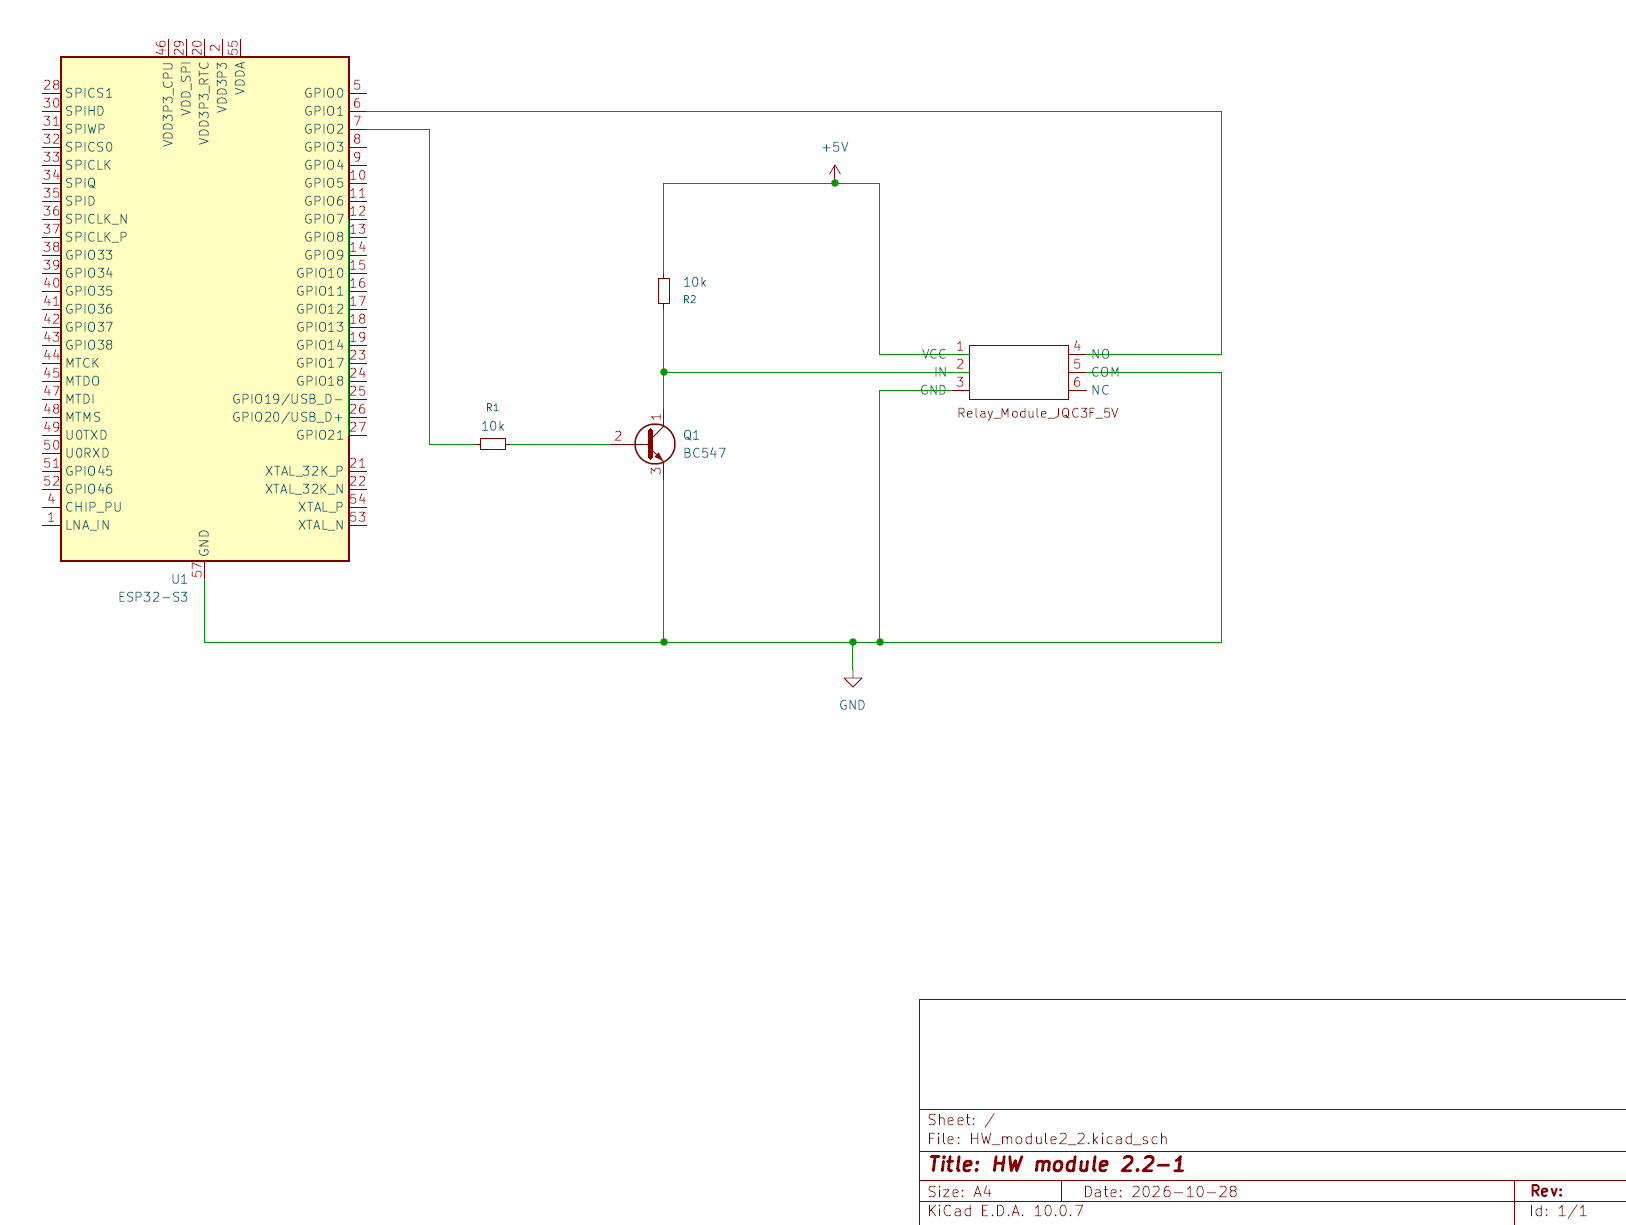
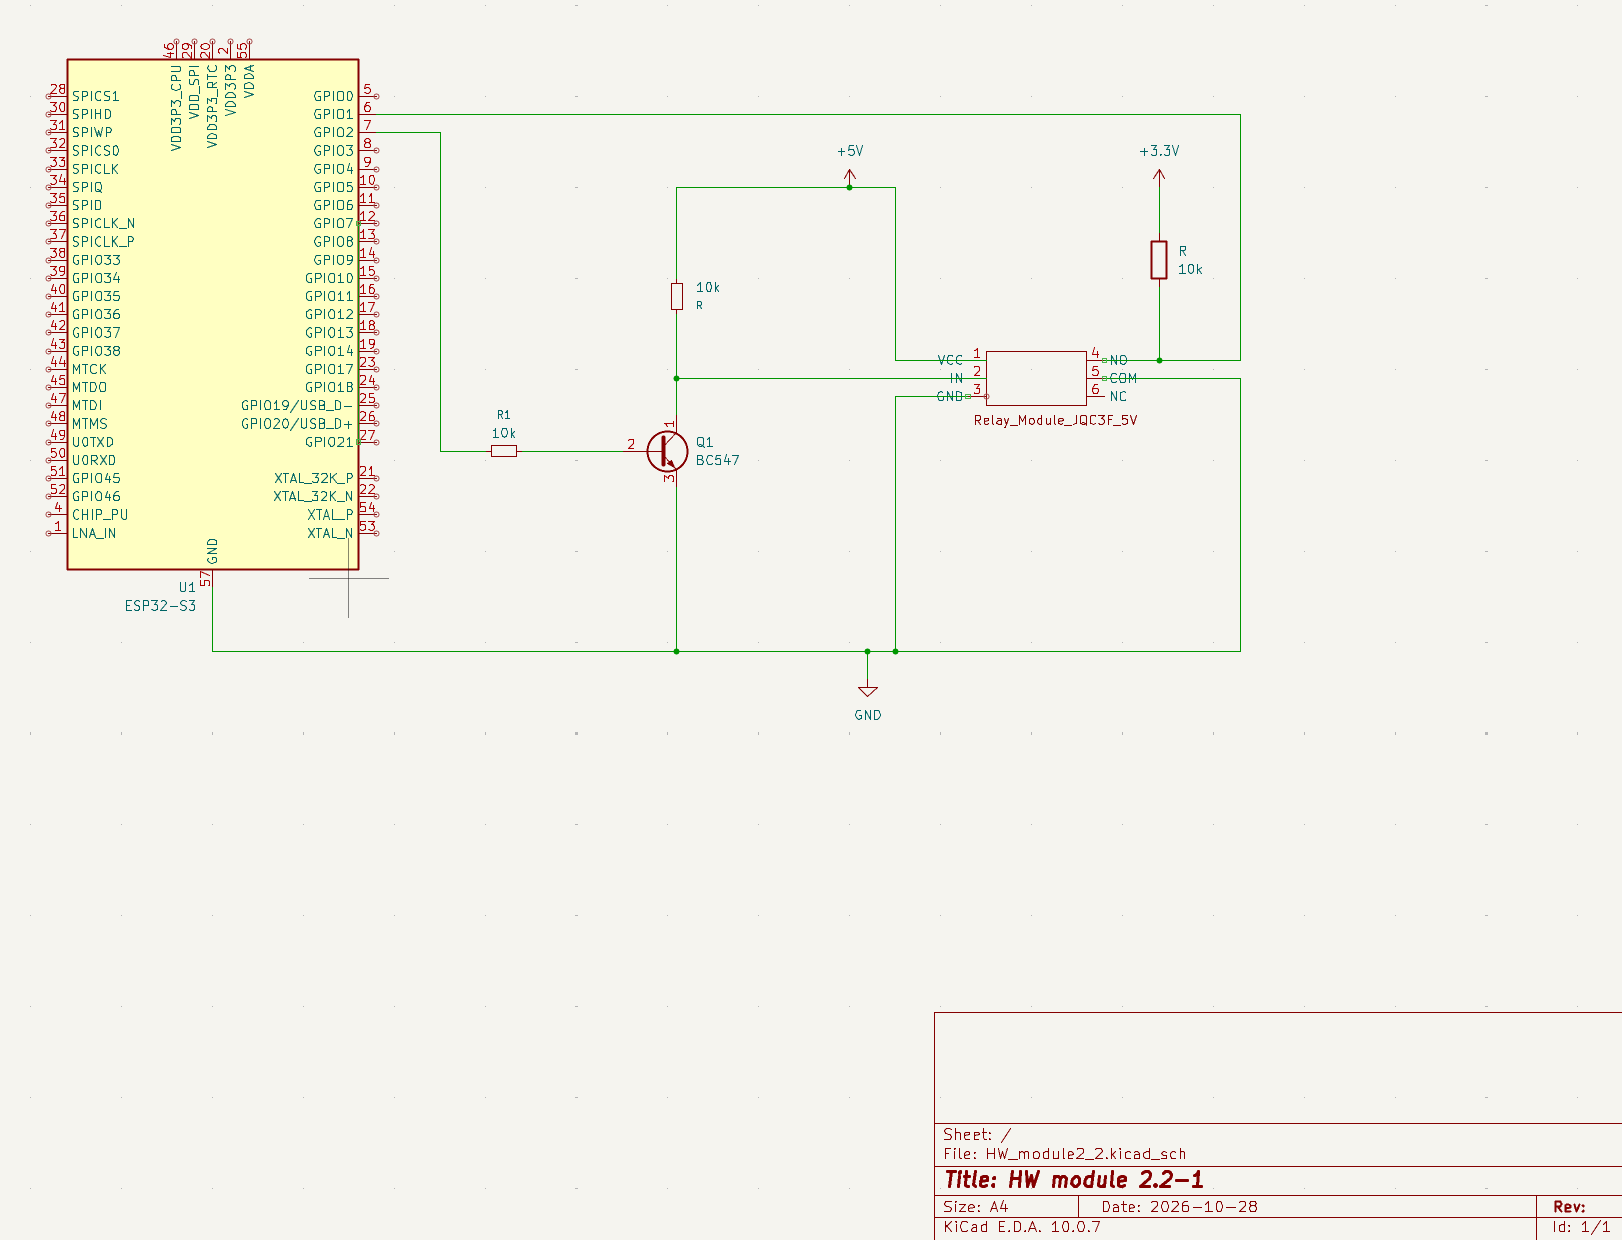
add inerrupts

diff --git a/src/main.cpp b/src/main.cpp
@@ -1,31 +1,184 @@
 #include <Arduino.h>
+#include <cstdint>
 
 #define RELAY_OUT 1
 #define RELAY_CONTROL 2
 
-u32_t delayMs = 1000;
-u32_t lastTimeChange = 0;
-uint16_t counter = 0;
+constexpr uint32_t delayMs = 1000;
+constexpr uint32_t debounceUs = 10000; // 10 ms
+constexpr uint16_t measurementsCount = 10;
+volatile uint32_t firstContactEdgeUs = 0;
+volatile uint32_t lastContactEdgeUs = 0;
+volatile uint8_t lastContactState = HIGH;
+volatile uint16_t contactEdgeCount = 0;
+
+volatile bool contactEdgePending = false;
+volatile bool measurementActive = false;
+
+uint32_t lastTimeChange = 0;
+uint32_t commandTimeUs = 0;
+
+bool relayOn = false;
+bool waitingForContact = false;
+
+uint16_t onCounter = 0;
+uint16_t offCounter = 0;
+uint64_t onTimeSumUs = 0;
+uint64_t offTimeSumUs = 0;
+uint64_t onBounceTimeSumUs = 0;
+uint64_t offBounceTimeSumUs = 0;
+uint32_t onBouncePulseSum = 0;
+uint32_t offBouncePulseSum = 0;
+
+bool testFinished = false;
+
+void ARDUINO_ISR_ATTR relayContactISR()
+{
+  if (!measurementActive)
+  {
+    return;
+  }
+
+  const uint32_t nowUs = micros();
+
+  if (contactEdgeCount == 0)
+  {
+    firstContactEdgeUs = nowUs;
+  }
+
+  lastContactEdgeUs = nowUs;
+  lastContactState = digitalRead(RELAY_OUT);
+  contactEdgeCount++;
+  contactEdgePending = true;
+}
 
 void setup()
 {
   pinMode(RELAY_CONTROL, OUTPUT);
   pinMode(RELAY_OUT, INPUT_PULLUP);
   digitalWrite(RELAY_CONTROL, LOW);
+  attachInterrupt(RELAY_OUT, relayContactISR,CHANGE);
   Serial.begin(115200);
+  delay(500);
   Serial.println("HW2_2 Setuped");
+  Serial.println("Relay delay measurement");
 }
 
 void loop()
 {
-  const uint32_t now = millis();
+  const uint32_t nowMs = millis();
+  const uint32_t nowUs = micros();
 
-  if (counter < 10 && now - lastTimeChange >= delayMs)
+  if (!testFinished && !waitingForContact && nowMs - lastTimeChange >= delayMs)
   {
-    lastTimeChange = now;
-    digitalWrite(RELAY_CONTROL, !digitalRead(RELAY_CONTROL));
-    // delay(100);
-    counter++;
-    Serial.printf("RELAY_CONTROL: %s    RELAY_OUT: %s\n", digitalRead(RELAY_CONTROL) ? "HIGH" : "LOW", !digitalRead(RELAY_OUT) ? "ON" : "OFF");
+    lastTimeChange = nowMs;
+    relayOn = !relayOn;
+
+    noInterrupts();
+    measurementActive = false;
+    firstContactEdgeUs = 0;
+    lastContactEdgeUs = 0;
+    contactEdgeCount = 0;
+    contactEdgePending = false;
+    interrupts();
+
+    commandTimeUs = micros();
+    digitalWrite(RELAY_CONTROL, relayOn ? HIGH : LOW);
+
+    noInterrupts();
+    measurementActive = true;
+    interrupts();
+
+    waitingForContact = true;
+
+    Serial.printf("Command: relay ");
+  }
+
+  if (waitingForContact && contactEdgePending)
+  {
+    uint32_t firstEdgeTimeUs;
+    uint32_t lastEdgeTimeUs;
+    uint8_t edgeState;
+    uint16_t edgeCount;
+
+    noInterrupts();
+    firstEdgeTimeUs = firstContactEdgeUs;
+    lastEdgeTimeUs = lastContactEdgeUs;
+    edgeState = lastContactState;
+    edgeCount = contactEdgeCount;
+    interrupts();
+
+    if (nowUs - lastEdgeTimeUs >= debounceUs)
+    {
+      bool edgeIsStable = false;
+
+      noInterrupts();
+      if (lastContactEdgeUs == lastEdgeTimeUs && lastContactState == edgeState &&  contactEdgeCount == edgeCount)
+      {
+        contactEdgePending = false;
+        edgeIsStable = true;
+      }
+      interrupts();
+
+      if (edgeIsStable)
+      {
+        const uint8_t expectedState =
+            relayOn ? LOW : HIGH;
+
+        if (edgeState == expectedState)
+        {
+          noInterrupts();
+          measurementActive = false;
+          interrupts();
+
+          waitingForContact = false;
+          const uint32_t switchingTimeUs = lastEdgeTimeUs - commandTimeUs;
+          const uint32_t bounceDurationUs = lastEdgeTimeUs - firstEdgeTimeUs;
+          const uint16_t bouncePulseCount = edgeCount > 1 ? (edgeCount - 1) / 2 : 0;
+
+          if (relayOn)
+          {
+            onCounter++;
+            onTimeSumUs += switchingTimeUs;
+            onBounceTimeSumUs += bounceDurationUs;
+            onBouncePulseSum += bouncePulseCount;
+
+            Serial.printf("ON  #%u: delay = %.3f ms, bounce = %.3f ms, edges = %u, bounce pulses = %u\n",
+                onCounter, switchingTimeUs / 1000.0, bounceDurationUs / 1000.0, edgeCount, bouncePulseCount);
+          }
+
+          else
+          {
+            offCounter++;
+            offTimeSumUs += switchingTimeUs;
+            offBounceTimeSumUs += bounceDurationUs;
+            offBouncePulseSum += bouncePulseCount;
+
+            Serial.printf("OFF #%u: delay = %.3f ms, bounce = %.3f ms, edges = %u, bounce pulses = %u\n",
+                offCounter, switchingTimeUs / 1000.0, bounceDurationUs / 1000.0, edgeCount, bouncePulseCount);
+          }
+        }
+      }
+    }
+  }
+
+  if (!testFinished && onCounter >= measurementsCount && offCounter >= measurementsCount)
+  {
+    testFinished = true;
+
+    const uint32_t averageOnUs = onTimeSumUs / onCounter;
+    const uint32_t averageOffUs = offTimeSumUs / offCounter;
+    const uint32_t averageOnBounceUs = onBounceTimeSumUs / onCounter;
+    const uint32_t averageOffBounceUs =  offBounceTimeSumUs / offCounter;
+    const float averageOnBouncePulses = static_cast<float>(onBouncePulseSum) / onCounter;
+    const float averageOffBouncePulses = static_cast<float>(offBouncePulseSum) / offCounter;
+
+    Serial.println("\n------------- RESULTS -------------");
+    Serial.printf("Average ON delay : %.3f ms\n", averageOnUs / 1000.0);
+    Serial.printf("Average OFF delay: %.3f ms\n", averageOffUs / 1000.0);
+    Serial.printf("\nAverage ON bounce :%.3f ms\n", averageOnBounceUs / 1000.0);
+    Serial.printf("Average OFF bounce: %.3f ms\n", averageOffBounceUs / 1000.0);
+    Serial.printf("Average ON bounce pulses : %.2f\n", averageOnBouncePulses);
+    Serial.printf("Average OFF bounce pulses: %.2f\n", averageOffBouncePulses);
   }
 }
